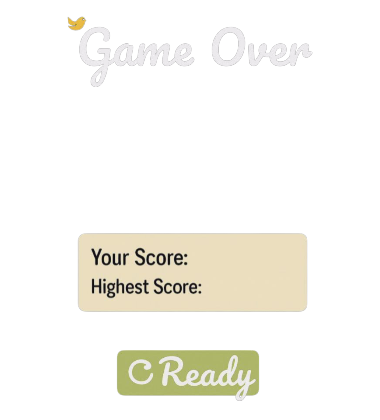
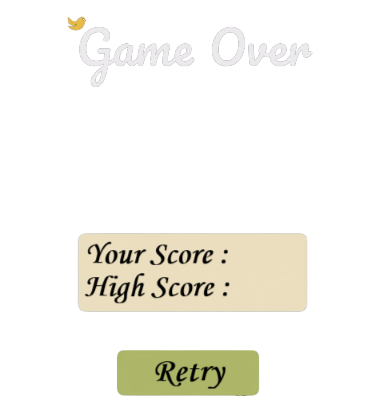
Added multiple bug fixes
Added specific click areas only when clicked the game will restart and be started with mode selected

Changed region(s): [[0.2316, 0.5571, 0.6079, 0.7429], [0.3184, 0.8357, 0.6658, 0.9595]]

diff --git a/main.py b/main.py
@@ -30,7 +30,7 @@ def welcomeScreen():
     """
     Shows Welcome Images on the screen 
     """ 
-    global current_bird_index, Player
+    global current_bird_index, Player, game_mode
     
     # Calculate positions for the new layout
     # 1) Flappy_Bird.png (title) - centered horizontally, positioned higher
@@ -62,13 +62,14 @@ def welcomeScreen():
                 sys.exit()
 
             elif event.type == KEYDOWN and (event.key == K_SPACE or event.key == K_UP):
-                return
+                # Prevent keyboard from starting the game
+                pass
             
             elif event.type == MOUSEBUTTONDOWN:
                 mouse_x, mouse_y = pygame.mouse.get_pos()
                 button_size = 60  # Same as in drawing section
                 
-                # Check if click is on Change Bird button
+                # Handle different click areas
                 if (changeBirdX <= mouse_x <= changeBirdX + button_size and 
                     changeBirdY <= mouse_y <= changeBirdY + button_size):
                     # Cycle to next bird
@@ -80,7 +81,6 @@ def welcomeScreen():
                 # Check if click is on Enemy Mode button
                 elif (enemyModeX <= mouse_x <= enemyModeX + Game_Photos['enemy_mode'].get_width() and
                       enemyModeY <= mouse_y <= enemyModeY + Game_Photos['enemy_mode'].get_height()):
-                    global game_mode
                     game_mode = 'enemy'
                     return  # Start enemy mode
                 
@@ -90,8 +90,9 @@ def welcomeScreen():
                     game_mode = 'normal'
                     return  # Start normal mode
                 
+                # All other clicks (including title) do nothing
                 else:
-                    return  # Start game if clicked elsewhere
+                    pass
             else:
                 # Draw background first
                 Screen.blit(Game_Photos['Background'],(0,0)) 
@@ -245,10 +246,13 @@ def mainGame():
                 pygame.time.wait(500)  # Wait half a second
                 Game_Sound['Die'].play()
             
-            # Show game over screen with final score and wait for click
-            gameOverScreen(score)
-            # Return to let the main loop show welcome screen
-            return
+            # Show game over screen and wait for restart button click
+            if gameOverScreen(score):
+                # Return True if restart button was clicked
+                return True
+            else:
+                # Return False if game was quit
+                return False
         
         #checks the score 
         playerMidPosition = playerx + Game_Photos['Player'].get_width()/2
@@ -299,13 +303,13 @@ def mainGame():
                 upperPipes.pop(0)
                 lowerPipes.pop(0)
                 
-            # Handle powerup spawning at score intervals of 14
-            if score >= 14:
+            # Handle powerup spawning at score intervals of 12
+            if score >= 12:
                 # Warn player when approaching powerup spawn
-                if score % 14 == 13:
+                if score % 12 == 11:
                     print("Get ready! Powerup coming up next!")
                 
-                if score % 14 == 0 and score != last_powerup_score:
+                if score % 12 == 0 and score != last_powerup_score:
                     last_powerup_score = score
                     should_spawn_powerup = True
                     print(f"Score {score} reached - powerup has spawned!")
@@ -377,7 +381,7 @@ def mainGame():
         # Draw powerups in normal mode
         if game_mode == 'normal':
             # Print debug info about powerups only when debug is enabled
-            if score >= 14:
+            if score >= 12:
                 if POWERUP_DEBUG:
                     print(f"Current score: {score}, Number of powerups: {len(powerups)}")
                 for powerup in powerups:
@@ -526,7 +530,8 @@ def isCollideWithEnemies(playerx, playery, enemies):
             
 def gameOverScreen(score):
     """
-    Shows Game Over screen with final score and highest score, waits for mouse click
+    Shows Game Over screen with final score and highest score.
+    Returns True if restart button was clicked, False otherwise.
     """
     global highest_score, game_mode
     # Update highest score if current score is higher
@@ -557,12 +562,12 @@ def gameOverScreen(score):
     highest_score_surface = font.render(highest_score_text, True, (0, 0, 0))
     
     # Position current score next to "Your Score:" text
-    scoreX = (ScreenWidth - score_surface.get_width()) // 2 + 12
-    scoreY = (ScreenHeight - Game_Photos['GameOver'].get_height()) // 2 + 196
+    scoreX = (ScreenWidth - score_surface.get_width()) // 2 + 55
+    scoreY = (ScreenHeight - Game_Photos['GameOver'].get_height()) // 2 + 193
     
     # Position highest score next to "Highest Score:" text
-    highscoreX = (ScreenWidth - highest_score_surface.get_width()) // 2 + 24  # Moved right by increasing from 10 to 20
-    highscoreY = scoreY + 29  # Moved up by reducing from 40 to 25
+    highscoreX = (ScreenWidth - highest_score_surface.get_width()) // 2 + 55  # Moved right by increasing from 10 to 20
+    highscoreY = scoreY + 34  # Moved up by reducing from 40 to 25
     
     while True:
         for event in pygame.event.get():
@@ -570,7 +575,35 @@ def gameOverScreen(score):
                 pygame.quit()
                 sys.exit()
             elif event.type == MOUSEBUTTONDOWN:
-                return
+                # Get mouse position
+                mouse_x, mouse_y = pygame.mouse.get_pos()
+                print(f"Clicked at position: x={mouse_x}, y={mouse_y}")
+                
+                # Calculate the restart button area based on game over image position
+                restart_x_min = gameOverX + 117  # Relative to game over image X
+                restart_x_max = gameOverX + 259  # Relative to game over image X
+                restart_y_min = gameOverY + 351  # Relative to game over image Y
+                restart_y_max = gameOverY + 393  # Relative to game over image Y
+                
+                # Draw visual debug rectangle
+                debug_rect = pygame.Rect(restart_x_min, restart_y_min, 
+                                       restart_x_max - restart_x_min, 
+                                       restart_y_max - restart_y_min)
+                Screen.blit(Game_Photos['GameOver'], (gameOverX, gameOverY))  # Redraw game over image
+                pygame.draw.rect(Screen, (255, 0, 0), debug_rect, 2)  # Red rectangle
+                
+                # Print debug info
+                print(f"Restart button area: X({restart_x_min}, {restart_x_max}), Y({restart_y_min}, {restart_y_max})")
+                
+                # Check if click is within restart area
+                if (restart_x_min <= mouse_x <= restart_x_max and 
+                    restart_y_min <= mouse_y <= restart_y_max):
+                    print("Click detected in restart area - Restarting game!")
+                    return True  # Make sure we return True to trigger restart
+                else:
+                    print("Click was outside restart area - No action taken")
+                
+                pygame.display.update()
         
         # Keep the game scene visible with GameOver image using current mode's theme
         Screen.blit(Game_Photos[current_background], (0, 0))
@@ -639,7 +672,7 @@ if __name__ == "__main__":
     #This will be main point from where our game will start
     pygame.init() #initialize all pygame modules 
     FPSCLOCK = pygame.time.Clock()
-    pygame.display.set_caption('Flappy Bird by Rehan')
+    pygame.display.set_caption('Flappy Bird')
     # Load number images
     original_numbers = [pygame.image.load(f'Gallery/Photos/{i}.png').convert_alpha() for i in range(10)]
     

diff --git a/game/constants.py b/game/constants.py
@@ -1,0 +1,43 @@
+from typing import Dict, List
+
+# Game Constants
+FPS: int = 32
+SCREEN_WIDTH: int = 409
+SCREEN_HEIGHT: int = 593
+GROUND_Y: float = SCREEN_HEIGHT * 0.8
+SCORE_INCREASE_FOR_INVULNERABILITY: int = 5
+POWERUP_SPAWN_INTERVAL: int = 12
+PIPE_WIDTH: int = 52
+PIPE_HEIGHT: int = 320
+GAP_SIZE: int = 100
+
+# Asset Paths
+ASSET_PATHS: Dict[str, str | List[str]] = {
+    'BIRD_OPTIONS': [
+        'Gallery/Photos/Bird.png',
+        'Gallery/Photos/Blue_Bird.png',
+        'Gallery/Photos/Red_Bird.png'
+    ],
+    'BACKGROUND': 'Gallery/Photos/Background.jpg',
+    'BACKGROUND_ENEMY': 'Gallery/Photos/Background1.png',
+    'PIPE': 'Gallery/Photos/pipe.png',
+    'PIPE_ENEMY': 'Gallery/Photos/pipe1.png',
+    'BASE': 'Gallery/Photos/Base.png',
+    'BASE_ENEMY': 'Gallery/Photos/Base1.png',
+    'POWERUP': 'Gallery/Photos/powerup.png',
+    'BAT': 'Gallery/Photos/bat.png',
+    'TITLE': 'Gallery/Photos/Flappy _Bird.png',
+    'GAMEOVER': 'Gallery/Photos/GameOver.png',
+    'PIPE_MODE': 'Gallery/Photos/Pipe_Mode.png',
+    'ENEMY_MODE': 'Gallery/Photos/Enemy_Mode.png'
+}
+
+# Sound Paths
+SOUND_PATHS: Dict[str, str] = {
+    'DIE': 'Gallery/Sound/Die.mp3',
+    'HIT': 'Gallery/Sound/Hit.mp3',
+    'POINT': 'Gallery/Sound/Point.mp3',
+    'SWOOSH': 'Gallery/Sound/Swoosh.mp3',
+    'WING': 'Gallery/Sound/Wing.mp3',
+    'BACKGROUND1': 'Gallery/Sound/Background1.mp3'
+}

diff --git a/game/__init__.py b/game/__init__.py
@@ -1,0 +1,1 @@
+"""Empty init file to make the game directory a Python package"""
